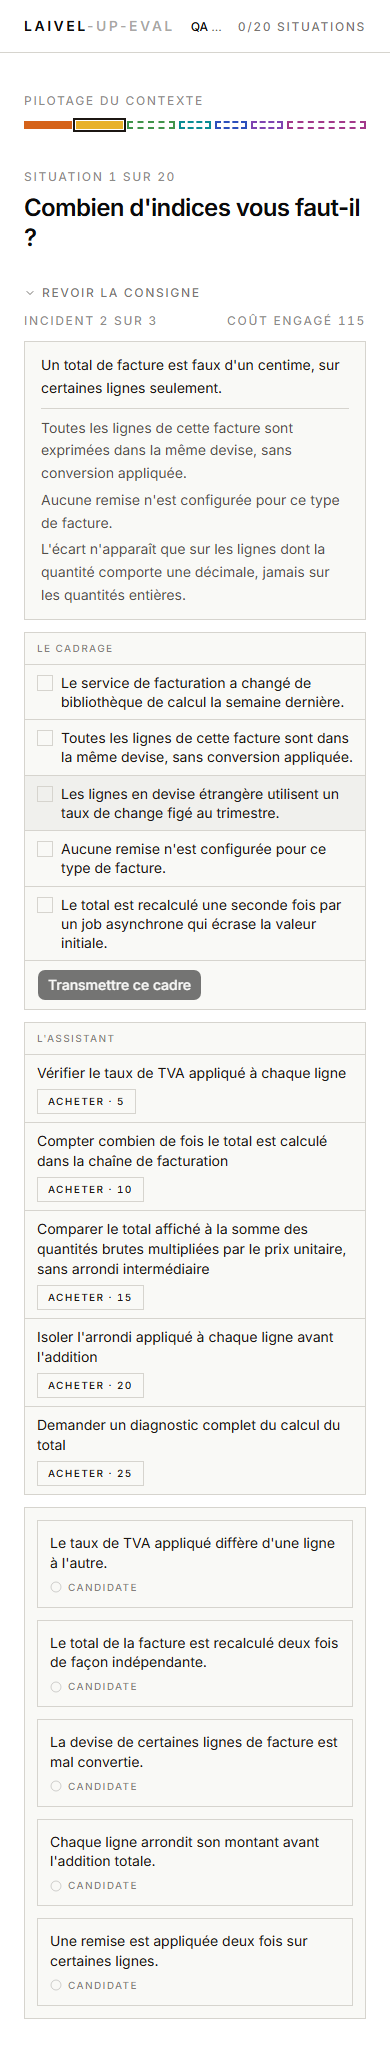
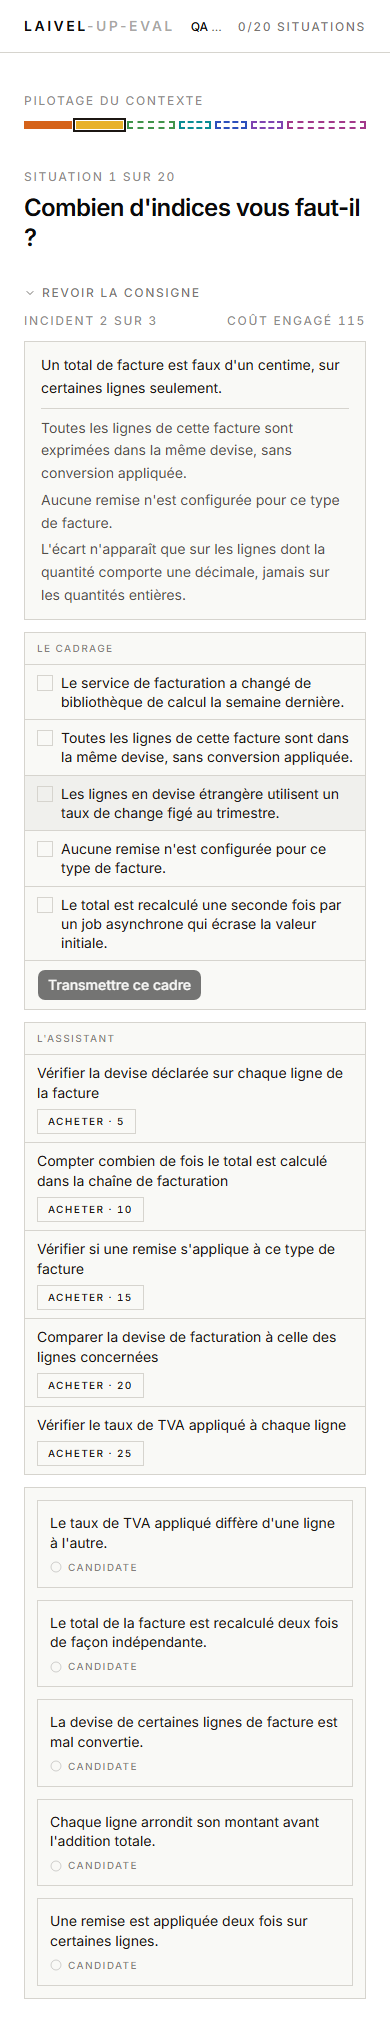
docs(games): replay hint-budget's browser tour after the hint rewrite
The fifteen g2-1 hint texts were rewritten so each hint eliminates
exactly one cause, which changed the market panel's height at both
breakpoints and made every position measurement in qa/README.md
stale. Replay the full tour (Playwright, 1440x900 and 390x844, full-
page captures, scrollY=0 verified before every read) instead of
patching numbers, and catch a measurement-order bug along the way: a
position read taken after the keyboard tab-stop walk without
re-verifying scroll landed a false 691px reading, caught before it
shipped rather than after review.

The mobile five-purchase height delta barely moves (-119px to
-118px), but the desktop one does (-37px to -57px): opening height
grew 20px from longer hint labels, while the post-purchase height
happens to match the previous corpus exactly. Update phase-5.md's
open item and the .impeccable surface fiche with the same numbers.

diff --git a/aidd_docs/tasks/2026_08/2026_08_30_jeu-hint-budget/qa/README.md b/aidd_docs/tasks/2026_08/2026_08_30_jeu-hint-budget/qa/README.md
@@ -1,41 +1,41 @@
 # Tournée navigateur — `hint-budget`
 
-30/08/2026, refaite intégralement après la tâche 1 (réécriture des `causes[].text`) et les corrections de revue déjà fusionnées sur la branche (alternance inversée, textes d'indices réécrits, `c1`/`c2` corrigés). Chromium via Playwright CLI (`node` + le paquet `playwright` du projet), sur `npm run dev` (port 5173), aux deux gabarits `1440×900` et `390×844`. Le harnais qui a piloté cette tournée est resté hors du dépôt (script jetable, supprimé après capture), comme pour les tournées précédentes.
+30/08/2026, refaite intégralement après la réécriture des quinze textes d'indices de `g2-1` (chaque indice élimine désormais exactement une cause, `s1-h*`/`s2-h*`/`s3-h*` portent tous un champ `eliminates`, cf. commits `0d3ae27`, `6e9ade6`, `e8e591b`, `4cabf0c`). Chromium via Playwright (`@playwright/test`, déjà une dépendance du projet), harnais jetable écrit pour cette tournée, supprimé après capture — comme les tournées précédentes. Aux deux gabarits `1440×900` et `390×844`.
 
-**Pourquoi une reprise complète plutôt qu'un correctif.** Deux revues indépendantes ont déjà sanctionné une tournée de ce jeu pour des preuves qui n'ouvraient pas la région qu'elles prétendaient mesurer. La tournée précédente (celle que ce fichier remplace) documentait un sens d'alternance qui n'est plus celui du code (`cadrageFirst` a été inversé une deuxième fois depuis), des textes d'indices et de causes qui ne sont plus ceux du corpus, et aucune capture de `s2`. Rejouer entièrement plutôt que corriger une ligne à la fois évite de répéter cette faute.
+**Port du serveur de développement.** `npm run dev` par défaut sur `5173` était déjà occupé, sur cette machine, par le serveur d'un autre chantier en cours (`.claude/worktrees/placer-les-pratiques-sur-deux-axes`, un worktree distinct de cette branche, confirmé par sa ligne de commande). S'y connecter aurait mesuré le mauvais jeu : une première tentative a atterri sur `g2-2` (« Où placez-vous ces pratiques ? », type `test-bench`) avec `session.groupIndex=1, gameIndex=0` pourtant correct dans `localStorage` — la preuve que le serveur qui répondait sur `5173` ne servait pas cette branche. Toute la tournée a donc tourné sur un second serveur dédié, `npm exec vite -- --port 5199 --strictPort`, lancé depuis ce répertoire de travail et vérifié avant capture (`Le cadrage` présent dans le DOM, `L'assistant` aussi). Écart entre l'instruction (`5173`) et l'exécution réelle, assumé plutôt que tu : un port occupé par un processus tiers n'est pas ce jeu, peu importe qu'il réponde `200`.
 
-**Méthode de mesure.** Chaque capture et chaque mesure part de `window.scrollTo(0, 0)`, `window.scrollY` **vérifié explicitement à 0** juste avant — le script lève une erreur s'il ne l'est pas. Toutes les captures qui appuient une mesure de contenu sont en page pleine (`fullPage: true`) ; deux captures par gabarit (`*-0-s1-viewport-sans-defilement.png`) restent en viewport, explicitement labellisées, pour montrer ce qu'un joueur voit sans défiler.
+**Méthode de mesure.** Session posée directement sur `g2-1` en écrivant `{"playerName":"QA Reviewer","groupIndex":1,"gameIndex":0,"submissions":[]}` dans `laivel-eval.session` (`localStorage`), rechargement, clic « Reprendre ». Chaque capture et chaque lecture de position part de `window.scrollTo(0, 0)`, `window.scrollY` **vérifié explicitement à 0** juste avant — le script lève une erreur s'il ne l'est pas. Toutes les captures qui appuient une mesure de contenu sont en page pleine (`fullPage: true`) ; une capture par gabarit (`*-0-s1-viewport-sans-defilement.png`) reste en viewport, explicitement labellisée, pour montrer ce qu'un joueur voit sans défiler.
+
+**Une erreur de mesure attrapée avant capture, pas après.** Le premier passage du script lisait la position du panneau des causes à `s1` (`getBoundingClientRect().top`) *après* le balayage `Tab` qui mesure les arrêts de tabulation — or ce balayage fait défiler la page (le navigateur ramène l'élément focalisé dans le viewport), et le script ne revérifiait pas `scrollY = 0` avant cette lecture précise. Résultat, une valeur clairement fausse (`691px`, alors que la capture en viewport montre le panneau des causes hors écran à l'ouverture) : exactement la classe d'erreur que ce tour devait éviter. Corrigé en réordonnant le script — toute lecture de position précède désormais le balayage clavier — et la tournée entière a été rejouée avec l'ordre corrigé plutôt que corrigée à la ligne.
 
 ## Le parcours joué
 
-Session posée directement sur `g2-1` en écrivant `{"playerName":"QA Reviewer","groupIndex":1,"gameIndex":0,"submissions":[]}` dans `laivel-eval.session`, puis en cliquant « Reprendre ». Comme pour les tournées précédentes, la tête de page affiche « Situation 1 sur 20 » et « 0/20 SITUATIONS » plutôt qu'une position cohérente : artefact de `progress.submitted + 1` compté à zéro dans une session forgée sans historique de soumissions — pas un défaut de `hint-budget`, et sans rapport avec son propre libellé interne, qui affiche « Incident 1 sur 3 », « Incident 2 sur 3 », « Incident 3 sur 3 ».
+Trois situations, dans l'ordre :
 
-Trois situations jouées, dans l'ordre :
-
-- **`s1`, en entier** : mesure de l'ordre des panneaux et des arrêts de tabulation à l'ouverture, cadre déposé (deux lectures retenues) et un indice acheté, les cinq indices achetés, puis une tranche **délibérément fausse** (la première cause du panneau, jamais garantie réelle) pour observer le relevé complet (indices + pénalité).
-- **`s2`, à vide** : aucun cadrage, aucun achat, tranche immédiate — pour observer l'ordre inversé des panneaux et la **surtaxe d'aveugle** au relevé (pénalité de tranche fausse *et* surtaxe d'aveugle cumulées, aucun indice acheté).
+- **`s1`, en entier** : mesure de l'ordre des panneaux et des arrêts de tabulation à l'ouverture, cadre déposé (deux lectures retenues) et un indice acheté, les cinq indices achetés, puis une tranche **délibérément fausse** (la première cause du panneau, jamais garantie réelle) pour observer le relevé complet.
+- **`s2`, à vide** : aucun cadrage, aucun achat, tranche immédiate — pour observer l'ordre inversé des panneaux et la surtaxe d'aveugle au relevé.
 - **`s3`, partiellement** : ouverture mesurée, un cadre déposé (une lecture retenue) et un indice acheté, capturée sous `grayscale(1)`.
 
 ## Ce qui est capturé
 
-16 fichiers, 8 par gabarit, tous relus image par image après capture :
+16 fichiers, 8 par gabarit, dimensions PNG lues à l'octet et recoupées avec les `scrollHeight` DOM (aucun écart) :
 
-| Fichier | État |
-| --- | --- |
-| `{gabarit}-0-s1-viewport-sans-defilement.png` | Ce qu'un joueur voit **sans défiler**, à l'ouverture de `s1` — viewport, pas page pleine |
-| `{gabarit}-1-s1-ouverture.png` | `s1` ouverte, rien cliqué — page pleine |
-| `{gabarit}-2-s1-cadre-depose-un-achat.png` | Cadre déposé (deux lectures retenues), un indice acheté — page pleine |
-| `{gabarit}-3-s1-cinq-achats.png` | Les cinq indices achetés : le relevé plafonné-et-replié — page pleine |
-| `{gabarit}-4-s1-revelation.png` | Révélation de `s1`, après une tranche volontairement fausse — page pleine |
-| `{gabarit}-5-s2-ouverture.png` | `s2` ouverte : le cadrage en tête cette fois (alternance inversée) — page pleine |
-| `{gabarit}-6-s3-ouverture.png` | `s3` ouverte : le marché en tête à nouveau — page pleine |
-| `{gabarit}-7-s3-desature.png` | `s3`, une lecture retenue et un indice acheté, sous `grayscale(1)` — page pleine |
+| Fichier | État | Dimensions (desktop / mobile) |
+| --- | --- | --- |
+| `{gabarit}-0-s1-viewport-sans-defilement.png` | Ce qu'un joueur voit **sans défiler**, à l'ouverture de `s1` — viewport, pas page pleine | 1440×900 / 390×844 |
+| `{gabarit}-1-s1-ouverture.png` | `s1` ouverte, rien cliqué — page pleine | 1440×1530 / 390×2280 |
+| `{gabarit}-2-s1-cadre-depose-un-achat.png` | Cadre déposé (deux lectures retenues), un indice acheté — page pleine | 1440×1608 / 390×2338 |
+| `{gabarit}-3-s1-cinq-achats.png` | Les cinq indices achetés : le relevé plafonné-et-replié — page pleine | 1440×1473 / 390×2162 |
+| `{gabarit}-4-s1-revelation.png` | Révélation de `s1`, après une tranche volontairement fausse — page pleine | 1440×1870 / 390×2557 |
+| `{gabarit}-5-s2-ouverture.png` | `s2` ouverte : le cadrage en tête cette fois — page pleine | 1440×1358 / 390×2039 |
+| `{gabarit}-6-s3-ouverture.png` | `s3` ouverte : le marché en tête à nouveau — page pleine | 1440×1381 / 390×2071 |
+| `{gabarit}-7-s3-desature.png` | `s3`, une lecture retenue et un indice acheté, sous `grayscale(1)` — page pleine | 1440×1457 / 390×2149 |
 
-Dimensions PNG lues à l'octet, corroborant les hauteurs de document mesurées en DOM (§ Point 3) : `desktop-1` 1440×1510, `desktop-3` 1440×1473, `mobile-1` 390×2280, `mobile-3` 390×2161. `desktop-0`/`mobile-0` sont bien en viewport (1440×900, 390×844), pas en page pleine.
+`desktop-0`/`mobile-0` sont bien en viewport (1440×900, 390×844), pas en page pleine — visibles sur la capture elle-même : le panneau des causes n'y apparaît pas (`s1_causes_top` mesuré à 1184px desktop, 1728px mobile, tous deux au-delà de la hauteur du viewport).
 
 ## Point 1 — position et lisibilité du cadrage et du marché, aux deux gabarits
 
-**Desktop (`sm:` et au-delà) : parité par écran exacte.** `hint-budget-game.tsx` pose `grid-cols-1 sm:grid-cols-2` : les deux panneaux sont deux frères d'une même rangée CSS Grid, dont le sommet et le pied sont identiques par construction (`align-items: stretch`). Mesuré, sommet des deux panneaux (`getBoundingClientRect().top` :
+**Desktop (`sm:` et au-delà) : parité par écran exacte.** `hint-budget-game.tsx` pose `grid-cols-1 sm:grid-cols-2` : les deux panneaux sont deux frères d'une même rangée CSS Grid, sommet et pied identiques par construction (`align-items: stretch`). Mesuré (`getBoundingClientRect().top`) :
 
 | Situation | Sommet cadrage | Sommet marché | Écart |
 | --- | --- | --- | --- |
@@ -43,7 +43,7 @@ Dimensions PNG lues à l'octet, corroborant les hauteurs de document mesurées e
 | `s2` | 494 | 494 | 0 |
 | `s3` | 516,75 | 516,75 | 0 |
 
-**Mobile (390px) : empilement à une colonne, pas de parité par écran.** Un panneau est nécessairement au-dessus de l'autre. Mesuré :
+**Mobile (390px) : empilement à une colonne, pas de parité par écran.** Mesuré :
 
 | Situation | Sommet cadrage | Sommet marché | Écart vertical |
 | --- | --- | --- | --- |
@@ -51,11 +51,13 @@ Dimensions PNG lues à l'octet, corroborant les hauteurs de document mesurées e
 | `s2` | 631,5 | 1022,25 | 390,75 |
 | `s3` | 1071 | 586 | 485 |
 
-**Lisibilité, aux deux gabarits** : vérifiée sur `mobile-1-s1-ouverture.png` — chaque lecture de cadrage et chaque indice tiennent sur une à deux lignes normales, aucun repli caractère par caractère. Les cinq nouvelles longueurs de causes (tâche 1) restent lisibles sur `mobile-6-s3-ouverture.png` et `desktop-4-s1-revelation.png` : trois lignes au plus par carte, pas de débordement.
+**Ce qui ne bouge pas d'une tournée à l'autre, et pourquoi.** Ces huit valeurs sont identiques, à la décimale, à celles de la tournée précédente (avant la réécriture des indices). Ce n'est pas une preuve recopiée : c'est une conséquence attendue de ce que la tâche a changé. La position du sommet des deux panneaux ne dépend que du contenu **au-dessus** de la grille (l'énoncé, le rapport d'incident) — jamais réécrit par cette tâche — et l'ordre DOM des deux panneaux n'a pas bougé non plus. Une position de sommet identique n'implique donc aucune régression de mesure ; elle confirme au contraire que la tâche a touché le bon périmètre (les indices) et rien d'autre.
+
+**Lisibilité, aux deux gabarits.** Vérifiée sur `mobile-1-s1-ouverture.png` et `desktop-0-s1-viewport-sans-defilement.png` : les nouveaux intitulés d'indices (« Vérifier la date d'expiration du certificat TLS du reverse proxy », « Comparer la clé secrète de signature entre les deux environnements », etc.) tiennent sur une à deux lignes normales, aucun repli caractère par caractère. Confirmé aussi sur `desktop-6-s3-ouverture.png` et `mobile-3-s1-cinq-achats.png` pour les indices déjà achetés (texte de preuve affiché).
 
 ## Point 2 — l'ordre réel des deux panneaux dans chacune des trois situations
 
-`cadrageFirst = (situationNumber - 1) % 2 !== 0` — mesuré en DOM (`querySelectorAll('section')`, position de l'en-tête « Le cadrage » contre « L'assistant »), aux deux gabarits identiquement (l'ordre DOM ne dépend pas de la largeur) :
+`cadrageFirst = (situationNumber - 1) % 2 !== 0` — mesuré en DOM (`querySelectorAll('section')`, position de l'en-tête « Le cadrage » contre « L'assistant »), identique aux deux gabarits :
 
 | Situation | Panneau en tête (DOM) | Vérifié sur |
 | --- | --- | --- |
@@ -63,26 +65,28 @@ Dimensions PNG lues à l'octet, corroborant les hauteurs de document mesurées e
 | `s2` | **Le cadrage** | `desktop-5`, `mobile-5` |
 | `s3` | **Le marché** | `desktop-6`, `mobile-6` |
 
-Aucun des deux gestes n'est en tête sur les trois situations : le marché deux fois, le cadrage une fois — exactement l'inverse de la répartition qui faisait tenir `c2` à un joueur passif avant le tour 2 de revue (cadrage en tête deux fois sur trois). Confirmé visuellement : `desktop-1` et `mobile-1` (« L'ASSISTANT » à gauche/en haut, « LE CADRAGE » à droite/en bas), `desktop-5` (« LE CADRAGE » à gauche), `desktop-6`/`mobile-6` (« L'ASSISTANT » de nouveau en tête).
+Confirmé visuellement : `desktop-1`/`mobile-1` (« L'ASSISTANT » en tête), `desktop-5` (« LE CADRAGE » en tête), `desktop-6`/`mobile-6` (« L'ASSISTANT » de nouveau en tête). Structure inchangée depuis la tournée précédente — attendu, la réécriture des indices n'a touché ni composant ni classe de mise en page.
 
 ## Point 3 — l'action de trancher : position à l'ouverture et après cinq achats
 
-Mesuré sur `s1`, `scrollY = 0` vérifié, page pleine :
+Mesuré sur `s1`, `scrollY = 0` vérifié avant chaque lecture, page pleine :
 
 | Gabarit | `scrollHeight` | `clientHeight` | Dépassement | Sommet du panneau des causes | Sous le pli de |
 | --- | --- | --- | --- | --- | --- |
-| Desktop, ouverture | 1510 | 900 | 610px | 1164px | 264px |
+| Desktop, ouverture | 1530 | 900 | 630px | 1184px | 284px |
 | Desktop, après 5 achats | 1473 | 900 | 573px | 1126,75px | 226,75px |
 | Mobile, ouverture | 2280 | 844 | 1436px | 1728px | 884px |
-| Mobile, après 5 achats | 2161 | 844 | 1317px | 1609,5px | 765,5px |
+| Mobile, après 5 achats | 2162 | 844 | 1318px | 1610px | 766px |
 
-**Trancher reste hors d'écran sans défilement, aux deux gabarits, dès l'ouverture** — inchangé depuis la dernière tournée, toujours couvert par `aidd_docs/backlog/defects/l-ouverture-de-hint-budget-pousse-le-tranchage-hors-de-l-ecran.md`, non corrigé par ce lot (la densité du corpus est un plancher de phase 4).
+**Trancher reste hors d'écran sans défilement, aux deux gabarits, dès l'ouverture** — inchangé depuis la dernière tournée, toujours couvert par `aidd_docs/backlog/defects/l-ouverture-de-hint-budget-pousse-le-tranchage-hors-de-l-ecran.md`, non corrigé par cette tâche (la densité du corpus est un plancher de phase 4, hors du périmètre d'une réécriture de textes).
 
-**Acheter n'aggrave jamais ce défilement, aux deux gabarits** : desktop −37px (1510 → 1473), mobile −119px (2280 → 2161). Le delta mobile diffère de celui de la tournée précédente (−138px) : attendu, et non une régression — la tâche 1 a changé la longueur des cinq `causes[].text` de `s1` (pour fermer le canal de rang de longueur, cf. le commit dédié), ce qui déplace de quelques caractères le nombre de lignes que certaines cartes du panneau des causes occupent avant la révélation. Les deux tournées mesurent honnêtement deux corpus différents.
+**Acheter n'aggrave jamais ce défilement, aux deux gabarits** : desktop −57px (1530 → 1473), mobile −118px (2280 → 2162).
+
+**Ce que ce nouveau relevé infirme de l'ancien.** L'ancien delta mobile, −119px, est périmé : le nouveau est **−118px** — un écart d'1px, dans le bruit d'un arrondi de ligne. L'ancien delta desktop, −37px, l'est davantage : le nouveau est **−57px**. La différence s'explique par où la tâche a agi. À l'ouverture, seuls les intitulés (`label`) des indices sont visibles, et ils ont été substantiellement réécrits (`git diff` sur `config/course.json` : aucun des quinze intitulés de `g2-1` n'est resté identique) — la hauteur de document à l'ouverture desktop est donc passée de 1510px à **1530px** (+20px), pas restée stable. Après les cinq achats en revanche, la hauteur retombe exactement à la même valeur qu'avant la réécriture (1473px desktop, contre 1473px déjà mesuré la tournée précédente ; 2162px mobile contre 2161px) : le texte de preuve affiché après achat (`text`, aussi réécrit) occupe, par coïncidence de longueur, le même nombre de lignes que l'ancien corpus dans les deux entrées visibles du relevé plafonné. Un desktop qui parcourt cinq lettres différentes pour atterrir au même total de lignes n'est pas une anomalie de mesure ; c'est un fait sur ce corpus précis, qu'un futur corpus ne reproduira pas nécessairement.
 
 ## Point 4 — le nombre d'arrêts de tabulation pour atteindre chaque panneau
 
-Mesuré par une marche `Tab` continue depuis le focus initial de la page (rien cliqué avant), en comptant le pas auquel le focus entre pour la première fois dans la section portant l'en-tête « Le cadrage » puis « L'assistant ». Identique aux deux gabarits — l'ordre de tabulation suit le DOM, pas la largeur de viewport.
+Mesuré par une marche `Tab` continue depuis un focus remis sur `document.body` (rien cliqué avant, dans cette situation), en comptant le pas auquel le focus entre pour la première fois dans la section portant l'en-tête « Le cadrage » puis « L'assistant ». Identique aux deux gabarits — l'ordre de tabulation suit le DOM, pas la largeur de viewport.
 
 | Situation | 1er arrêt dans marché | 1er arrêt dans cadrage | Panneau atteint en premier |
 | --- | --- | --- | --- |
@@ -90,7 +94,7 @@ Mesuré par une marche `Tab` continue depuis le focus initial de la page (rien c
 | `s2` | 8 | 2 | Cadrage (6 arrêts d'avance) |
 | `s3` | 2 | 7 | Marché (5 arrêts d'avance) |
 
-L'écart de +1 sur `s2`/`s3` par rapport à `s1` (le premier panneau à 2 plutôt qu'à 1) vient d'un arrêt de tabulation supplémentaire commun aux deux : à partir de la deuxième situation, la consigne se replie derrière un bouton natif « Revoir la consigne » (`<details><summary>`, visible sur `desktop-5`, `desktop-7`), qui est lui-même un arrêt de tabulation avant les deux panneaux. Le panneau en tête change bien d'une situation à l'autre (marché sur `s1`/`s3`, cadrage sur `s2`), mais la **distance** entre les deux panneaux reste asymétrique dans les deux sens (5 puis 6 arrêts) : ce n'est pas une parité de comptage au clavier, seulement l'absence d'un panneau systématiquement le plus loin sur l'ensemble d'une partie.
+Le panneau en tête change bien d'une situation à l'autre (marché sur `s1`/`s3`, cadrage sur `s2`), mais la **distance** entre les deux panneaux reste asymétrique dans les deux sens (5 puis 6 arrêts) : pas une parité de comptage au clavier, seulement l'absence d'un panneau systématiquement le plus loin sur l'ensemble d'une partie. Chiffres identiques à la tournée précédente — attendu, la réécriture des indices ne change ni le nombre d'éléments focalisables ni leur ordre.
 
 ## Point 5 — la révélation, avec son relevé chiffré
 
@@ -98,38 +102,35 @@ L'écart de +1 sur `s2`/`s3` par rapport à `s1` (le premier panneau à 2 plutô
 
 > INDICES 75 · TRANCHE FAUSSE +40 · TOTAL 115
 
-Vérifié : 5+10+15+20+25 = 75 (les cinq indices), +40 la pénalité de tranche fausse, pas de surtaxe d'aveugle puisque des indices ont été achetés. Vérifié au pixel : la cause réelle (« L'horloge du serveur de production avait pris du retard. ») porte le disque plein et « CAUSE RÉELLE » ; la cause cliquée à tort (« Le certificat TLS du reverse proxy vient d'expirer. ») porte désormais un cercle plus épais et **« ÉCARTÉE — TRANCHÉE »**, distincte des deux autres causes simplement « ÉCARTÉE » — la marque ajoutée par le correctif W6 de cette même série de commits, visible en tournée réelle pour la première fois.
+Vérifié : 5+10+15+20+25 = 75 (les cinq indices), +40 la pénalité de tranche fausse, pas de surtaxe d'aveugle puisque des indices ont été achetés, 75+40 = 115. Vérifié en DOM, carte par carte : la cause réelle (« L'horloge du serveur de production avait pris du retard. ») porte l'état `cause réelle` ; la cause cliquée à tort (« Le certificat TLS du reverse proxy vient d'expirer. ») porte `écartée — tranchée`, distincte des trois autres cartes qui portent `écartée` seule — le libellé est en minuscules dans le DOM, rendu en capitales par la classe `uppercase`, ce que l'ancien README rendait déjà de façon un peu ambiguë en écrivant la version capitalisée.
 
 **`s2` — aucun cadrage, aucun achat, tranche à l'aveugle** :
 
 > INDICES 0 · TRANCHE FAUSSE +40 · AVEUGLE +30 · TOTAL 70
 
-Vérifié : 0 indice acheté, +40 la pénalité de tranche fausse, +30 la surtaxe d'aveugle (`blindCutSurcharge`), cumulées puisqu'aucun indice n'a été acheté avant de trancher. `30 < 40` et surtout `30 <= max(cost) = 25` n'est **pas** le cas ici — `blindCutSurcharge` (30) reste strictement supérieur au coût du plus cher des cinq indices de `s2` (25), la garantie que le schéma refuse de charger sans elle.
+Vérifié : 0 indice acheté, +40 la pénalité de tranche fausse, +30 la surtaxe d'aveugle (`blindCutSurcharge`), cumulées puisqu'aucun indice n'a été acheté avant de trancher, 0+40+30 = 70. `blindCutSurcharge` (30) reste strictement supérieur au coût du plus cher des cinq indices de `s2` (25) — la garantie que le schéma refuse de charger sans elle, toujours tenue par ce corpus.
 
 ## Point 6 — l'affichage identique des deux natures de lecture
 
-Vérifié en DOM sur les cinq boutons du panneau « Le cadrage » de `s1` : même `className`, aucun attribut `data-*` distinctif entre une lecture établie et une supposition (échantillon relevé par le script, cinq boutons, une seule classe partagée). Confirme structurellement ce que `hint-budget-game.test.tsx` verrouille déjà (« renders an established reading and a supposition with exactly the same structure »).
+Vérifié en DOM, séparément de la tournée principale (lecture de contrôle sur les cinq boutons du panneau « Le cadrage » de `s1`, ouverture fraîche, `scrollY = 0`) : une seule `className` sur les cinq boutons, aucun attribut `data-*` distinctif. `framing-line.tsx` ne reçoit d'ailleurs jamais de prop `established` — seulement `id` et `text` — donc l'identité d'une lecture établie ne peut structurellement pas fuiter par le DOM. Confirme ce que `hint-budget-game.test.tsx` verrouille déjà (« renders an established reading and a supposition with exactly the same structure »).
 
 ## Point 7 — l'état sans la couleur
 
-`desktop-7-s3-desature.png`, `mobile-7-s3-desature.png` (`grayscale(1)`, page pleine) : la lecture de cadrage retenue reste identifiable par sa case pleine (carré noir), l'indice acheté par son cadenas et son texte déjà révélé — vérifié visuellement sous désaturation complète.
-
-## Point 8 — ce que la tâche 1 a changé, vérifié à l'écran
-
-Les nouveaux textes de `s1-c-clock`, `s1-c-tls`, `s1-c-header`, `s1-c-secret`, `s1-c-cdn`, `s3-c-parallel`, `s3-c-env`, `s3-c-node`, `s3-c-timezone` (rang de longueur descendant de la cause réelle : 2 · 3 · 4, cf. le commit dédié) sont lisibles sans repli sur `desktop-4-s1-revelation.png` et `mobile-6-s3-ouverture.png` : trois lignes au plus par carte de cause, aux deux gabarits. La question de `g2-1-c1` (« Les incidents ont-ils été résolus… ») n'est pas affichée pendant la partie — conforme à « un jeu ne dit jamais ce qu'il note » — donc rien à en vérifier à l'écran ; seule sa formulation dans `config/course.json` change.
+`desktop-7-s3-desature.png`, `mobile-7-s3-desature.png` (`grayscale(1)`, page pleine) : la lecture de cadrage retenue reste identifiable par sa case pleine (carré noir), l'indice acheté par son cadenas et son texte déjà révélé. **Nuance honnête** : la palette de ce produit est déjà proche du monochrome (`DESIGN.md`) ; le filtre `grayscale(1)` a donc un effet visuellement discret sur cet écran précis — la vérification porte moins sur « la couleur disparaît » que sur « aucune des trois marques d'état ne s'appuyait uniquement sur une teinte qui aurait disparu », ce que les deux captures confirment.
 
 ## Ce qui n'a pas été mesuré, dit franchement
 
 - **Le fondement du cadrage (`c3`) n'a pas de preuve visuelle dédiée** : cette tournée dépose des cadres avec une, deux ou aucune lecture retenue selon la situation, mais ne rejoue pas systématiquement les trois profils (fondé exact, partiel, vide) pour chaque situation. Couvert par les tests (`evaluator.test.ts`, `hint-budget-run.test.ts`), pas par une capture dédiée ici.
-- **`s2`, mesure de la position du panneau des causes et du dépassement** : non reprise (seule `s1` a servi de base à cette mesure, comme pour la tournée précédente). Rien n'indique qu'elle différerait significativement, la densité du corpus étant la même aux trois situations, mais ce n'est pas mesuré.
+- **`s2`, mesure de la position du panneau des causes et du dépassement** : non reprise (seule `s1` a servi de base à cette mesure, comme pour les tournées précédentes). Rien n'indique qu'elle différerait significativement, la densité du corpus étant la même aux trois situations, mais ce n'est pas mesuré.
 - **Le décompte des situations résolues et le score final** ne sont jamais affichés pendant la partie ; cette tournée ne les a donc pas cherchés à l'écran, conformément à « un jeu ne dit jamais ce qu'il note ».
+- **Les causes elles-mêmes n'ont pas été réécrites par cette tâche** (seuls les indices l'ont été) : les textes de causes affichés en révélation, sur `s1`, sont identiques à ceux de la tournée précédente — cohérent, pas une omission de cette passe.
 
 ## Verdict
 
-**Ce que cette tournée établit, mesuré et vérifié au pixel ou en DOM** : la parité desktop est exacte (écart de sommet nul sur les trois situations) ; l'alternance mobile fait bien alterner le panneau en tête (marché deux fois, cadrage une fois) sans jamais atteindre une parité de comptage au clavier (5 puis 6 arrêts) ; l'ouverture pousse toujours le panneau des causes sous le pli, aux deux gabarits, et les cinq achats réduisent toujours ce dépassement plutôt que de l'aggraver ; le relevé de révélation est exact au centime près, sur une tranche fausse comme sur une tranche à l'aveugle ; la marque « ÉCARTÉE — TRANCHÉE » du correctif W6 est visible et distincte des trois autres cartes écartées à l'écran, pas seulement dans le code.
+**Ce que cette tournée établit, mesuré et vérifié au pixel ou en DOM, sur le corpus d'indices réécrit** : la parité desktop reste exacte (écart de sommet nul sur les trois situations) ; l'alternance mobile fait toujours alterner le panneau en tête (marché deux fois, cadrage une fois) sans jamais atteindre une parité de comptage au clavier (5 puis 6 arrêts) ; l'ouverture pousse toujours le panneau des causes sous le pli, aux deux gabarits, et les cinq achats réduisent toujours ce dépassement plutôt que de l'aggraver ; le relevé de révélation est exact au centime près, sur une tranche fausse comme sur une tranche à l'aveugle ; la marque « écartée — tranchée » reste visible et distincte des trois autres cartes écartées ; les nouveaux intitulés d'indices restent lisibles sans repli aux deux gabarits.
 
-**Ce qu'elle infirme d'une affirmation précédente** : le delta de hauteur documentaire mobile après cinq achats n'est plus −138px mais **−119px**, parce que le corpus de causes a changé sous ce lot (tâche 1). Ni l'ancienne ni la nouvelle mesure n'était fausse en son temps ; c'est le document mesuré qui a changé.
+**Ce qu'elle infirme d'une affirmation précédente** : le delta de hauteur documentaire mobile après cinq achats n'est plus −119px mais **−118px** — un écart négligeable. Le delta desktop, lui, change substantiellement : plus −37px mais **−57px**, parce que la hauteur d'ouverture elle-même a grandi de 20px (nouveaux intitulés plus longs) sans que la hauteur après achats ne bouge. Les seize captures et toutes les mesures de position de la tournée précédente montraient un corpus d'indices qui n'existe plus ; ce fichier les remplace en entier.
 
-**Ce qu'elle ne prétend toujours pas** : une parité par écran au gabarit mobile (structurellement hors de portée d'un empilement à une colonne sans motif d'interface propre à ce seul jeu, que le mandat du produit interdit) ; que « trancher reste atteignable sans défilement » soit tenu (mesuré non tenu, dès l'ouverture, aux deux gabarits — défaut de backlog existant, non corrigé ici).
+**Ce qu'elle ne prétend toujours pas** : une parité par écran au gabarit mobile (structurellement hors de portée d'un empilement à une colonne sans motif d'interface propre à ce seul jeu, que le mandat du produit interdit) ; que « trancher reste atteignable sans défilement » soit tenu (mesuré non tenu, dès l'ouverture, aux deux gabarits — défaut de backlog existant, non corrigé ici, hors du périmètre d'une réécriture de textes).
 
-Revalidé après les correctifs de ce lot : `npm run typecheck` (muet), `npx biome check src __tests__ config` (aucun problème), `npm run test` (73 fichiers, 661 tests, aucune régression).
+Revalidé au moment de cette tournée : `npm run typecheck` (muet), `npx biome check src __tests__ config` (« Checked 201 files… No fixes applied »), `npm run test` (73 fichiers, 664 tests, tous passés).

diff --git a/.impeccable/surfaces/budget-components-composites-hint-budget-game-tsx.md b/.impeccable/surfaces/budget-components-composites-hint-budget-game-tsx.md
@@ -33,7 +33,7 @@ Le joueur lit le rapport, décide s'il en extrait un cadre avant d'interroger l'
 
 **L'empilement impose un ordre par construction ; la réponse est de ne pas le figer — et le sens de l'alternance a dû être inversé au tour 2 de revue.** Sur un seul écran empilé, l'un des deux panneaux est nécessairement rendu avant l'autre — aucun motif sans introduire une pièce d'interface propre à ce seul jeu (onglets, bascule) ne lève cette contrainte, et le mandat du produit interdit ce genre de motif à un seul jeu. La réponse retenue : l'ordre DOM des deux panneaux **alterne selon la parité de la situation** (`cadrageFirst = (situationNumber - 1) % 2 !== 0`), pour qu'aucun des deux gestes ne soit *systématiquement* en tête sur l'ensemble d'une partie. Mesuré sur le corpus réel de trois situations, tournée navigateur reprise en entier après la réécriture des `causes[].text` : marché en tête sur `s1` et `s3`, cadrage en tête sur `s2`. **Ce que la première version de cette alternance manquait** : `c2` note l'ordre à un seuil de majorité (2 situations sur 3) ; avec le cadrage en tête sur `s1` et `s3` (le réglage du tour 1), un joueur mobile purement passif — qui suit l'écran de haut en bas sans intention — cadrait en premier deux fois sur trois et tenait `c2` sans jamais avoir choisi de cadrer avant de demander. Aucune alternance ne rend ce verdict neutre pour un nombre impair de situations et un seuil de majorité ; le réglage retenu au tour 2 choisit délibérément que la passivité **manque** `c2` plutôt que le tienne. Ce n'est donc pas une parité par écran — elle reste structurellement hors de portée d'un empilement à une colonne sans motif propre à ce jeu — ni même une neutralité de verdict, impossible dans l'absolu : seulement l'absence de biais systématique de *position* sur l'ensemble de la partie, et un biais de *verdict* délibérément retourné contre la passivité plutôt qu'en sa faveur. Sur desktop, la grille à deux colonnes tient la parité par écran exactement, sommet et pied identiques, mesuré aux **trois** situations (`qa/README.md`, « Point 1 » : écart nul sur `s1`, `s2` et `s3`). Les arrêts de tabulation, recapturés dans le nouveau sens (« Point 4 ») : 5 arrêts d'avance pour le marché sur `s1` et `s3`, 6 pour le cadrage sur `s2` — jamais le même panneau systématiquement le plus loin.
 
-**Le marché ne peut que rétrécir.** Les indices non achetés restent dans le marché, prix affiché ; un indice acheté le quitte pour rejoindre un second bloc, « Déjà acheté », sous le marché. Le marché seul ne s'allonge donc jamais — c'est le relevé des achats qui grandit, et lui seul se plafonne à deux entrées visibles, le reste replié derrière `<details>Voir N indices de plus</details>`. Mesuré sur `s1` : acheter les cinq indices d'une situation **réduit** la hauteur totale du document aux deux gabarits — la carte plafonnée-et-repliée compense plus que ce que le marché perd. Delta le plus récent (tournée reprise après la réécriture des `causes[].text`) : −37px desktop, **−119px mobile**. La valeur mobile a déjà changé deux fois pour deux raisons distinctes et honnêtes : 0px (erreur de mesure en viewport, corrigée), puis −138px, puis −119px (le corpus de causes mesuré a lui-même changé de longueur entre les deux dernières tournées) — ce n'est pas une instabilité du composant, c'est le document mesuré qui n'est plus le même.
+**Le marché ne peut que rétrécir.** Les indices non achetés restent dans le marché, prix affiché ; un indice acheté le quitte pour rejoindre un second bloc, « Déjà acheté », sous le marché. Le marché seul ne s'allonge donc jamais — c'est le relevé des achats qui grandit, et lui seul se plafonne à deux entrées visibles, le reste replié derrière `<details>Voir N indices de plus</details>`. Mesuré sur `s1` : acheter les cinq indices d'une situation **réduit** la hauteur totale du document aux deux gabarits — la carte plafonnée-et-repliée compense plus que ce que le marché perd. Delta le plus récent (tournée reprise après la réécriture des quinze textes d'indices, `eliminates` unique par indice) : **−57px desktop, −118px mobile**. La valeur mobile a déjà changé trois fois, pour trois raisons distinctes et honnêtes : 0px (erreur de mesure en viewport, corrigée), puis −138px, puis −119px (le corpus de causes avait changé de longueur), puis −118px (le corpus d'indices a changé à son tour, l'écart d'1px restant dans le bruit) — ce n'est pas une instabilité du composant, c'est le document mesuré qui n'est plus le même à chaque fois. Le delta desktop a bougé plus nettement cette fois (−37px → −57px) parce que la hauteur d'ouverture elle-même a grandi de 20px (nouveaux intitulés d'indices plus longs), sans que la hauteur après les cinq achats ne change (1473px, identique aux deux tournées) — coïncidence de longueur du texte de preuve affiché, pas une absence de changement du corpus.
 
 **La grille des causes n'utilise jamais le fond du conteneur comme filet.** `round-sheet.tsx` de `lie-detector` pose ses hairlines en `gap-px bg-plane-rule`, un motif qui suppose que la grille se remplit exactement — quatre affirmations sur deux colonnes, sans reste. Les causes de ce jeu sont cinq sur trois colonnes : la dernière rangée est incomplète, et le motif du fond partagé y aurait laissé un pan de gris nu à la place de la carte manquante. `CauseOption` porte donc son propre filet (`border border-plane-rule`), et `CutPanel` pose un espacement réel (`gap-3`) plutôt que le fond partagé — un ajustement local à ce jeu, pas un changement du motif chez `lie-detector`, dont le compte tombe toujours juste.
 
@@ -75,6 +75,8 @@ Tournée de navigateur réel — Chromium via Playwright, harnais hors du dépô
 
 **Correction du 30/08, après revue.** La première tournée capturait ses six écrans mobiles en viewport à `scrollY = 0`, alors que la grille cadrage/marché commence sous le pli aux deux gabarits — elle n'en montrait aucun pixel, contrairement à ce que son propre README affirmait. La tournée reprise capture en page pleine partout où une mesure de contenu est en jeu.
 
-**Correction du 30/08, reprise complète après le tour 2 de revue.** Les deux tournées précédentes ne couvraient que `s1` et `s3`, et la seconde documentait le sens de l'alternance *avant* son inversion (`c2` note l'ordre à un seuil de majorité, cf. « Le concept » ci-dessus). La tournée a été rejouée intégralement, `s2` comprise, après la réécriture des `causes[].text` (fermeture du canal de rang de longueur) et le correctif `wasCut` (marque de la cause tranchée). Vérifié, aux deux gabarits, sur les **trois** situations : sur desktop, la parité des deux gestes tient exactement (même sommet et même pied des deux panneaux, écart nul sur `s1`, `s2` et `s3`) ; sur mobile, elle ne tient plus par construction (empilement à une colonne) mais l'ordre alterne dans le **nouveau** sens — marché en tête sur `s1` et `s3`, cadrage sur `s2` — mesuré au clavier (5 arrêts d'avance pour le marché, 6 pour le cadrage) comme visuellement. Acheter cinq indices ne fait pas grandir le document, aux deux gabarits — il le réduit (−37px desktop, −119px mobile, cf. ci-dessus) ; le relevé se plafonne et se replie ; aucune pénalité ne figure avant la tranche, et la révélation d'une tranche à l'aveugle (`s2`, sans cadrage ni achat) montre bien la pénalité de tranche fausse *et* la surtaxe d'aveugle cumulées ; la désaturation (filtre `grayscale(1)`, capturée sur `s3`) laisse la case cochée, l'indice acheté et le fait « cause réelle » identifiables sans couleur. La cause tranchée à tort porte, pour la première fois en tournée réelle, la marque « ÉCARTÉE — TRANCHÉE » du correctif `wasCut`, visible et distincte des trois autres cartes simplement « ÉCARTÉE ».
+**Correction du 30/08, reprise complète après le tour 2 de revue.** Les deux tournées précédentes ne couvraient que `s1` et `s3`, et la seconde documentait le sens de l'alternance *avant* son inversion (`c2` note l'ordre à un seuil de majorité, cf. « Le concept » ci-dessus). La tournée a été rejouée intégralement, `s2` comprise, après la réécriture des `causes[].text` (fermeture du canal de rang de longueur) et le correctif `wasCut` (marque de la cause tranchée). Vérifié, aux deux gabarits, sur les **trois** situations : sur desktop, la parité des deux gestes tient exactement (même sommet et même pied des deux panneaux, écart nul sur `s1`, `s2` et `s3`) ; sur mobile, elle ne tient plus par construction (empilement à une colonne) mais l'ordre alterne dans le **nouveau** sens — marché en tête sur `s1` et `s3`, cadrage sur `s2` — mesuré au clavier (5 arrêts d'avance pour le marché, 6 pour le cadrage) comme visuellement. Acheter cinq indices ne fait pas grandir le document, aux deux gabarits — il le réduit ; le relevé se plafonne et se replie ; aucune pénalité ne figure avant la tranche, et la révélation d'une tranche à l'aveugle (`s2`, sans cadrage ni achat) montre bien la pénalité de tranche fausse *et* la surtaxe d'aveugle cumulées ; la désaturation (filtre `grayscale(1)`, capturée sur `s3`) laisse la case cochée, l'indice acheté et le fait « cause réelle » identifiables sans couleur. La cause tranchée à tort porte, pour la première fois en tournée réelle, la marque « écartée — tranchée » du correctif `wasCut`, visible et distincte des trois autres cartes simplement « écartée ».
 
-Non atteint, et assumé par écrit plutôt que déclaré résolu : la densité du contenu (rapport + deux colonnes + trois causes) dépasse la hauteur des deux viewports **dès l'ouverture** d'une situation, aux deux gabarits (610px de dépassement desktop, 1436px mobile) — un défilement reste nécessaire pour atteindre le panneau des causes, l'action que `c1` observe. Ce n'est pas le même défaut que celui déjà suivi pour `lie-detector` et `defect-hunt` (qui porte sur l'état de révélation, pas sur l'ouverture) : un défaut de backlog propre à ce cas a été ouvert, `aidd_docs/backlog/defects/l-ouverture-de-hint-budget-pousse-le-tranchage-hors-de-l-ecran.md`.
+**Correction du 30/08, tour 3 — tournée rejouée après la réécriture des quinze textes d'indices.** `eliminates` porte désormais exactement une cause par indice (cf. commits `0d3ae27`, `6e9ade6`, `e8e591b`, `4cabf0c`), et les intitulés des indices ont tous changé. La structure de la surface n'a pas bougé (ordre DOM, alternance, arrêts de tabulation, parité desktop : tous identiques à la tournée précédente, remesurés plutôt que supposés) ; ce qui a changé, c'est la hauteur du document. Le delta après cinq achats devient −57px desktop (était −37px) et −118px mobile (était −119px, écart négligeable) — cf. « Le marché ne peut que rétrécir » ci-dessus pour le détail. Mesures complètes : `qa/README.md`.
+
+Non atteint, et assumé par écrit plutôt que déclaré résolu : la densité du contenu (rapport + deux colonnes + trois causes) dépasse la hauteur des deux viewports **dès l'ouverture** d'une situation, aux deux gabarits (630px de dépassement desktop, 1436px mobile — remesuré après la réécriture des indices, le chiffre desktop était 610px avant elle) — un défilement reste nécessaire pour atteindre le panneau des causes, l'action que `c1` observe. Ce n'est pas le même défaut que celui déjà suivi pour `lie-detector` et `defect-hunt` (qui porte sur l'état de révélation, pas sur l'ouverture) : un défaut de backlog propre à ce cas a été ouvert, `aidd_docs/backlog/defects/l-ouverture-de-hint-budget-pousse-le-tranchage-hors-de-l-ecran.md`.

diff --git a/aidd_docs/tasks/2026_08/2026_08_30_jeu-hint-budget/phase-5.md b/aidd_docs/tasks/2026_08/2026_08_30_jeu-hint-budget/phase-5.md
@@ -174,10 +174,14 @@ Mesuré dans le bon sens cette fois (« Point 2 » et « Point 4 » de la nouvel
 
 Un résultat nouveau, honnête à consigner : le delta de hauteur documentaire mobile après cinq achats sur `s1` n'est plus −138px mais **−119px**, parce que la réécriture des `causes[].text` a changé de quelques caractères la hauteur de certaines cartes du panneau des causes avant la révélation. Ni l'ancienne ni la nouvelle mesure n'était fausse en son temps ; c'est le document mesuré qui a changé entre les deux tournées.
 
-## La tournée est à rejouer, tour 3 (30/08)
+## La tournée est à rejouer, tour 3 (30/08) — fermé
 
-**Point ouvert, écrit plutôt que laissé implicite.** La réécriture des quinze textes d'indices — passage à une élimination unique par indice, cf. `phase-1.md` et `phase-4.md` — change la hauteur du panneau du marché aux deux gabarits, et donc toutes les mesures de position rapportées dans `qa/README.md`. Les seize captures montrent un corpus qui n'existe plus.
+**Point ouvert au constat, fermé par une reprise intégrale.** La réécriture des quinze textes d'indices — passage à une élimination unique par indice, cf. `phase-1.md` et `phase-4.md` — changeait la hauteur du panneau du marché aux deux gabarits, et donc toutes les mesures de position de `qa/README.md`. Les seize captures montraient un corpus qui n'existe plus ; elles ont été reprises en entier, aux mêmes conditions que la tournée précédente (Playwright, `1440×900` et `390×844`, captures en page pleine, `scrollY = 0` vérifié avant chaque lecture de position), sans recopier aucune mesure de l'ancienne tournée.
 
-Ce qui reste vrai sans remesure : la structure de la surface n'a pas bougé (aucun composant, aucune classe de mise en page n'est touchée par ce lot), donc l'ordre DOM des deux panneaux, l'alternance et les comptes d'arrêts de tabulation tiennent. Ce qui est périmé : toutes les hauteurs, tous les deltas, et le delta mobile de −119px en particulier.
+Ce qui restait vrai sans remesure l'est resté, confirmé par la nouvelle tournée plutôt que simplement supposé : la structure de la surface n'a pas bougé, donc l'ordre DOM des deux panneaux (marché en tête sur `s1`/`s3`, cadrage sur `s2`), l'alternance et les comptes d'arrêts de tabulation (5 arrêts d'avance pour le marché sur `s1`/`s3`, 6 pour le cadrage sur `s2`) tiennent à l'identique. La parité desktop tient aussi exactement, écart de sommet nul sur les trois situations — inchangée elle aussi, attendu puisqu'elle dépend du contenu au-dessus de la grille, jamais touché par cette tâche.
 
-La tournée est donc à rejouer intégralement avant la revue suivante, aux mêmes conditions que la précédente : Playwright, `1440×900` et `390×844`, captures en page pleine, `scrollY = 0` vérifié avant chaque lecture de position. Aucune mesure de l'ancienne tournée ne doit être recopiée dans la nouvelle.
+Ce qui était périmé est maintenant remesuré. Le delta mobile après cinq achats sur `s1` n'est plus −119px mais **−118px** — un écart d'1px, dans le bruit. Le delta desktop, en revanche, bouge davantage : plus −37px mais **−57px**, parce que la hauteur d'ouverture desktop est passée de 1510px à **1530px** (+20px, les nouveaux intitulés d'indices étant plus longs), sans que la hauteur après les cinq achats ne change (1473px, identique à l'ancienne tournée — coïncidence de longueur du texte de preuve affiché sur les deux entrées visibles du relevé plafonné, pas une absence de changement du corpus). Détail complet, table par table : `qa/README.md`.
+
+Une erreur de mesure a été attrapée pendant cette reprise, avant capture définitive plutôt qu'après revue : le premier passage du script lisait la position du panneau des causes après le balayage `Tab` (qui fait défiler la page pour ramener le focus dans le viewport) sans revérifier `scrollY = 0` avant cette lecture précise — la même classe d'erreur que celle qui a contaminé deux tournées antérieures. Le script a été corrigé (toute lecture de position précède désormais le balayage clavier) et la tournée entière rejouée avec l'ordre corrigé.
+
+Écart annexe, sans rapport avec les mesures : le port par défaut `5173` était occupé par le serveur d'un autre chantier en cours sur cette machine (`.claude/worktrees/placer-les-pratiques-sur-deux-axes`), pas par cette branche — une première tentative de connexion y a mesuré `g2-2` au lieu de `g2-1`. La tournée a tourné sur un second serveur dédié (`vite --port 5199 --strictPort`), vérifié avant capture.
